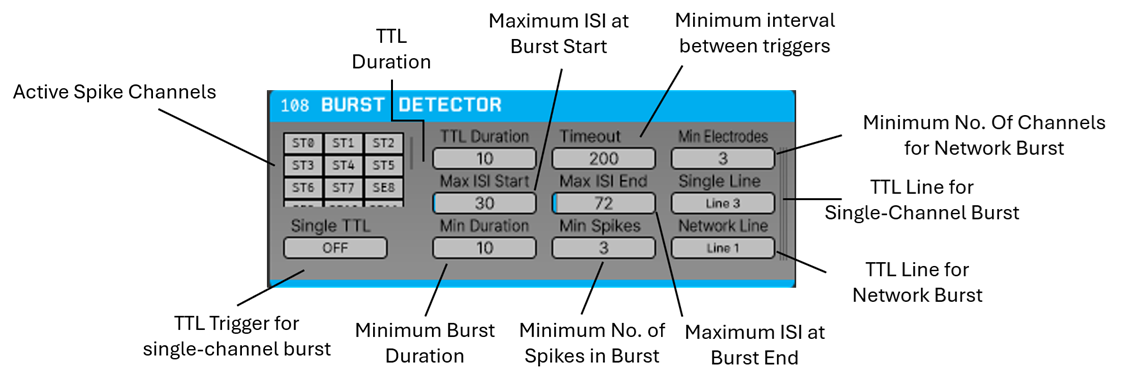
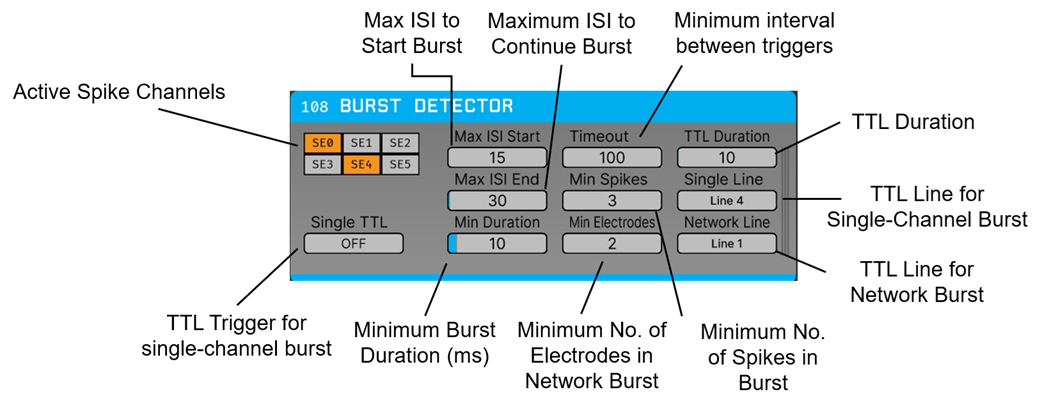
update_configuration

diff --git a/Source/BurstDetectorEditor.cpp b/Source/BurstDetectorEditor.cpp
@@ -57,24 +57,18 @@ BurstDetectorEditor::BurstDetectorEditor(GenericProcessor* parentNode)
     spikeChannelViewport->setViewedComponent (spikeChannelCanvas);
     addAndMakeVisible (spikeChannelViewport);
 
-
-    addBoundedValueParameterEditor(Parameter::PROCESSOR_SCOPE, "event_duration", 10 + VIEWPORT_WIDTH + 10, 25);
-    ParameterEditor* durationEditor = getParameterEditor ("event_duration");
-    durationEditor->setLayout (ParameterEditor::Layout::nameOnTop);
-    durationEditor->setSize (CONTENT_WIDTH, CONTENT_HEIGHT);
-
-    addBoundedValueParameterEditor(Parameter::PROCESSOR_SCOPE, "timeout", 10 + VIEWPORT_WIDTH + 10+CONTENT_WIDTH+10, 25);
-    ParameterEditor* timeoutEditor = getParameterEditor ("timeout");
-    timeoutEditor->setLayout (ParameterEditor::Layout::nameOnTop);
-    timeoutEditor->setSize (CONTENT_WIDTH, CONTENT_HEIGHT);
-
-
-    addBoundedValueParameterEditor(Parameter::PROCESSOR_SCOPE, "max_isi_start", 10 + VIEWPORT_WIDTH + 10, 25 + CONTENT_HEIGHT);
+    addToggleParameterEditor(Parameter::STREAM_SCOPE, "single_burst_enabled", 10, 25 + CONTENT_HEIGHT * 2);
+    ParameterEditor* singleBurstEnabledEditor = getParameterEditor ("single_burst_enabled");
+    singleBurstEnabledEditor->setLayout (ParameterEditor::Layout::nameOnTop);
+    singleBurstEnabledEditor->setSize (CONTENT_WIDTH, CONTENT_HEIGHT);
+    
+    //first column
+    addBoundedValueParameterEditor(Parameter::PROCESSOR_SCOPE, "max_isi_start", 10 + VIEWPORT_WIDTH + 10,  25);
     ParameterEditor* maxIsiStartEditor = getParameterEditor ("max_isi_start");
     maxIsiStartEditor->setLayout (ParameterEditor::Layout::nameOnTop);
     maxIsiStartEditor->setSize (CONTENT_WIDTH, CONTENT_HEIGHT);
 
-    addBoundedValueParameterEditor(Parameter::PROCESSOR_SCOPE, "max_isi_end", 10 + VIEWPORT_WIDTH + 10+CONTENT_WIDTH+10, 25 + CONTENT_HEIGHT);
+    addBoundedValueParameterEditor(Parameter::PROCESSOR_SCOPE, "max_isi_end", 10 + VIEWPORT_WIDTH + 10, 25 + CONTENT_HEIGHT);
     ParameterEditor* maxIsiEndEditor = getParameterEditor ("max_isi_end");
     maxIsiEndEditor->setLayout (ParameterEditor::Layout::nameOnTop);
     maxIsiEndEditor->setSize (CONTENT_WIDTH, CONTENT_HEIGHT);
@@ -84,25 +78,34 @@ BurstDetectorEditor::BurstDetectorEditor(GenericProcessor* parentNode)
     minDurationEditor->setLayout (ParameterEditor::Layout::nameOnTop);
     minDurationEditor->setSize (CONTENT_WIDTH, CONTENT_HEIGHT);
 
-    addBoundedValueParameterEditor(Parameter::PROCESSOR_SCOPE, "min_spikes", 10 + VIEWPORT_WIDTH + 10+CONTENT_WIDTH+10, 25 + CONTENT_HEIGHT * 2);
+    //second column
+
+    addBoundedValueParameterEditor(Parameter::PROCESSOR_SCOPE, "timeout", 10 + VIEWPORT_WIDTH + 10+CONTENT_WIDTH+10, 25);
+    ParameterEditor* timeoutEditor = getParameterEditor ("timeout");
+    timeoutEditor->setLayout (ParameterEditor::Layout::nameOnTop);
+    timeoutEditor->setSize (CONTENT_WIDTH, CONTENT_HEIGHT);
+
+    addBoundedValueParameterEditor(Parameter::PROCESSOR_SCOPE, "min_spikes", 10 + VIEWPORT_WIDTH + 10+CONTENT_WIDTH+10, 25 + CONTENT_HEIGHT);
     ParameterEditor* minSpikesEditor = getParameterEditor ("min_spikes");
     minSpikesEditor->setLayout (ParameterEditor::Layout::nameOnTop);
     minSpikesEditor->setSize (CONTENT_WIDTH, CONTENT_HEIGHT);
 
-    addBoundedValueParameterEditor(Parameter::PROCESSOR_SCOPE, "min_electrodes", 10 + VIEWPORT_WIDTH +10+CONTENT_WIDTH+10+CONTENT_WIDTH+10, 25);
+    addBoundedValueParameterEditor(Parameter::PROCESSOR_SCOPE, "min_electrodes", 10 + VIEWPORT_WIDTH +10+CONTENT_WIDTH+10, 25 + CONTENT_HEIGHT * 2);
     ParameterEditor* minElectrodesEditor = getParameterEditor ("min_electrodes");
     minElectrodesEditor->setLayout (ParameterEditor::Layout::nameOnTop);
     minElectrodesEditor->setSize (CONTENT_WIDTH, CONTENT_HEIGHT);
+
+    //third column
+
+    addBoundedValueParameterEditor(Parameter::PROCESSOR_SCOPE, "event_duration",10 + VIEWPORT_WIDTH +10+CONTENT_WIDTH+10+CONTENT_WIDTH+10, 25);
+    ParameterEditor* durationEditor = getParameterEditor ("event_duration");
+    durationEditor->setLayout (ParameterEditor::Layout::nameOnTop);
+    durationEditor->setSize (CONTENT_WIDTH, CONTENT_HEIGHT);
 
     addTtlLineParameterEditor(Parameter::STREAM_SCOPE, "single_burst_line", 10 + VIEWPORT_WIDTH +10+CONTENT_WIDTH+10+CONTENT_WIDTH+10, 25 + CONTENT_HEIGHT);
     ParameterEditor* singleBurstLineEditor = getParameterEditor ("single_burst_line");
     singleBurstLineEditor->setLayout (ParameterEditor::Layout::nameOnTop);
     singleBurstLineEditor->setSize (CONTENT_WIDTH, CONTENT_HEIGHT);
-
-    addToggleParameterEditor(Parameter::STREAM_SCOPE, "single_burst_enabled", 10, 25 + CONTENT_HEIGHT * 2);
-    ParameterEditor* singleBurstEnabledEditor = getParameterEditor ("single_burst_enabled");
-    singleBurstEnabledEditor->setLayout (ParameterEditor::Layout::nameOnTop);
-    singleBurstEnabledEditor->setSize (CONTENT_WIDTH, CONTENT_HEIGHT);
 
     addTtlLineParameterEditor(Parameter::STREAM_SCOPE, "network_burst_line", 10 + VIEWPORT_WIDTH +10+CONTENT_WIDTH+10+CONTENT_WIDTH+10, 25 + CONTENT_HEIGHT * 2);
     ParameterEditor* networkBurstLineEditor = getParameterEditor ("network_burst_line");
